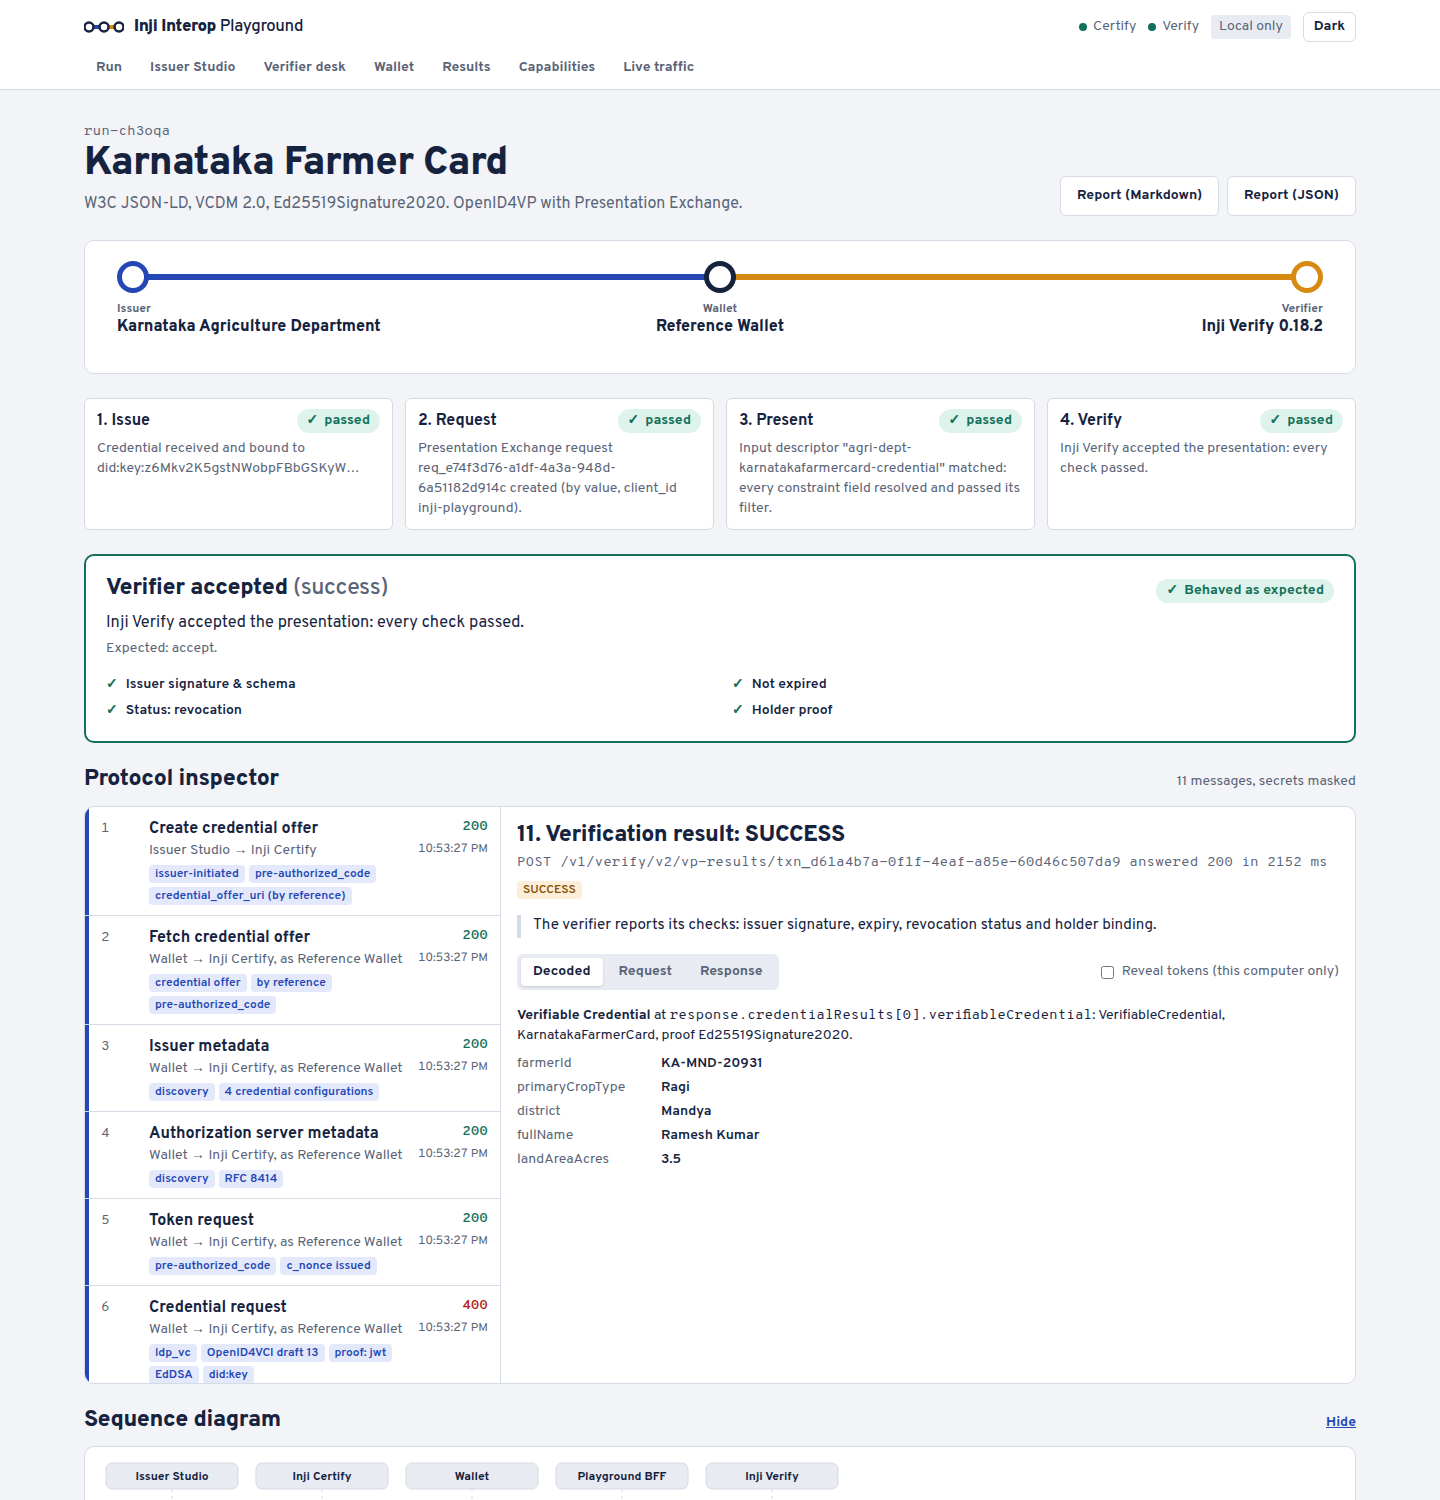
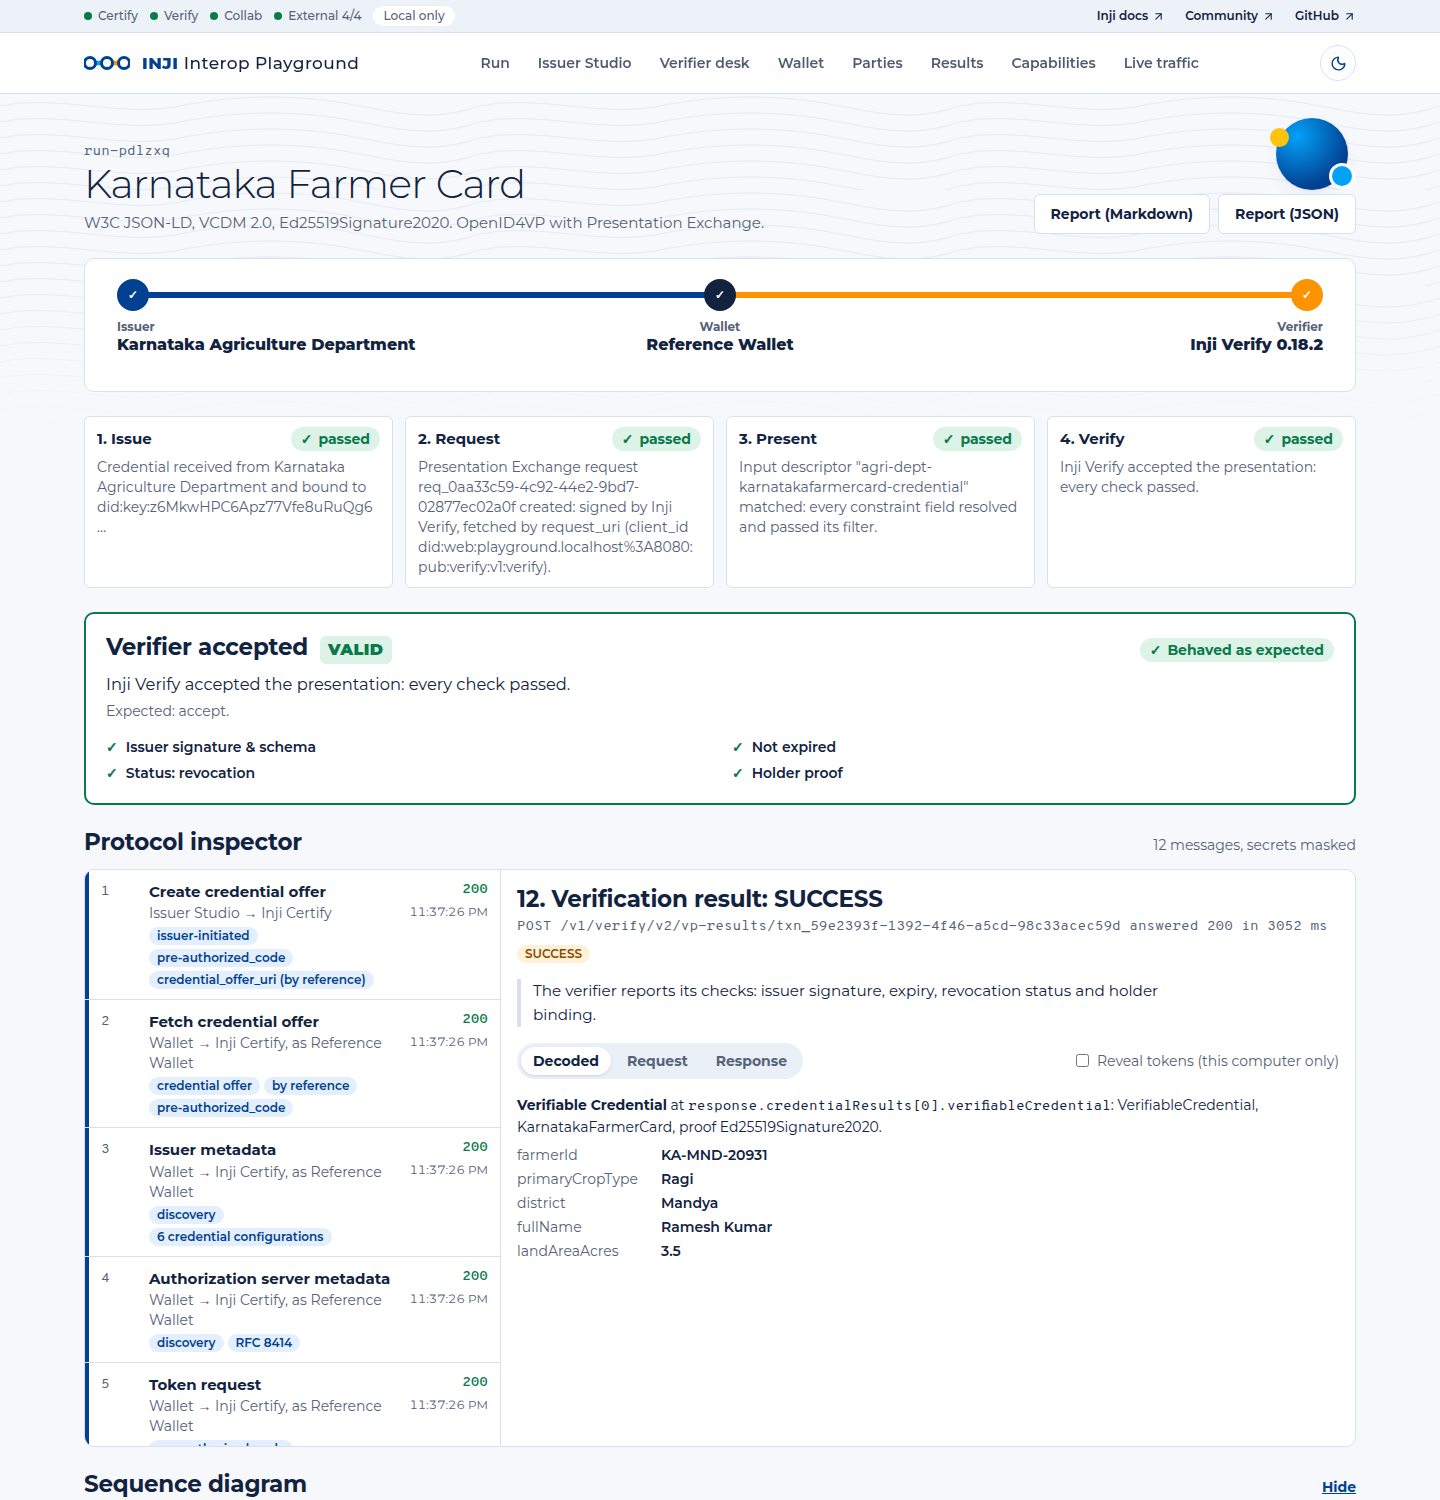
Retake README screenshots on the new UI

diff --git a/docs/test-results.md b/docs/test-results.md
@@ -165,23 +165,24 @@ steps to reproduce:
 ## UI checks
 
 I opened every page in Chromium (Playwright 1.56) at **390 × 844** and **1440 × 900** against the running bundle.
-I did this on 23 Oct 2026, after the matrix, so Results and the history were full. I recorded the console,
-horizontal overflow and layout shift (CLS):
+I did this on 25 Oct 2026, after the interface was restyled to follow mosip.io, with Results and the history full from
+the 24 Oct matrix. The 23 Oct pass had the same result for the earlier look. I recorded the console, horizontal
+overflow and layout shift (CLS):
 
 | Page | Console errors | Horizontal overflow (390 / 1440) | Layout shift, CLS (390 / 1440) |
 |---|---|---|---|
-| Run (builder, with Collab and external parties) | none | 0 / 0 | 0.0008 / 0.0019 |
-| Run detail (a Collab run) | none | 0 / 0 | 0 / 0.0019 |
-| Issuer Studio | none | 0 / 0 | 0 / 0.0098 |
-| Verifier desk | none | 0 / 0 | 0.0005 / 0.002 |
-| Wallet (with *Collect from MOSIP Collab*) | none | 0 / 0 | 0 / 0.0041 |
-| Parties (with the hosted section) | none | 0 / 0 | 0.002 / 0.002 |
-| Results | none | 0 / 0 | 0 / 0.0019 |
-| Capabilities | none | 0 / 0 | 0 / 0.0019 |
-| Live traffic | none | 0 / 0 | 0 / 0.0053 |
+| Run (builder, with Collab and external parties) | none | 0 / 0 | 0.0019 / 0.0032 |
+| Run detail (a Collab run) | none | 0 / 0 | 0.0004 / 0.0028 |
+| Issuer Studio | none | 0 / 0 | 0 / 0.0076 |
+| Verifier desk | none | 0 / 0 | 0.0004 / 0.0029 |
+| Wallet (with *Collect from MOSIP Collab*) | none | 0 / 0 | 0.0004 / 0.0028 |
+| Parties (with the hosted section) | none | 0 / 0 | 0.0022 / 0.0029 |
+| Results | none | 0 / 0 | 0 / 0.0028 |
+| Capabilities | none | 0 / 0 | 0.0004 / 0.0028 |
+| Live traffic | none | 0 / 0 | 0.0004 / 0.0028 |
 
 At phone width, the Results matrix scrolls sideways inside its own container. The page itself does not scroll
-sideways. The screenshots in the README and in [screenshots/](screenshots/) come from this pass.
+sideways. The screenshots in the README and in [screenshots/](screenshots/) were retaken in this pass, on the restyled interface.
 
 **Layout shift history.** Until 19 Oct, most pages scored above 0.1 at phone width. That is the line for "good".
 Studio scored 0.50 and Live traffic scored 0.42. Giving `main` a minimum height fixed most of them. On 23 Oct,
